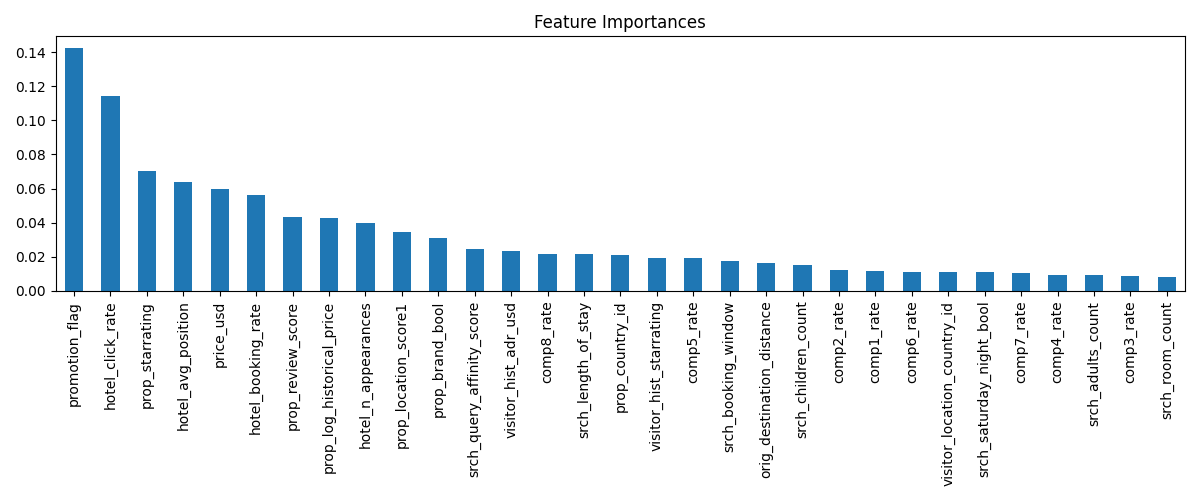
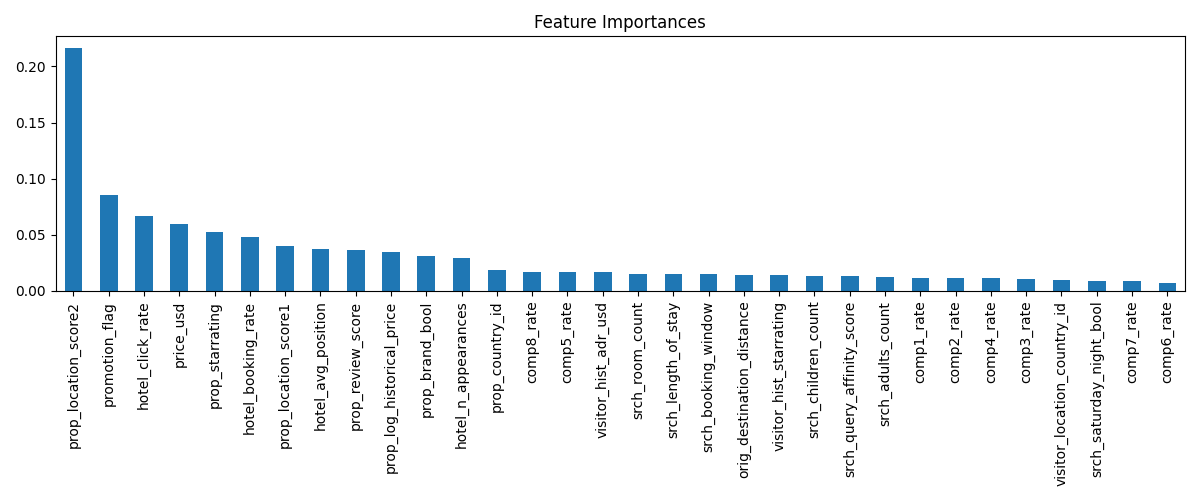
Debugged and found the issue for a zero kaggle score! wrong unwrapping of a function. Don't mind all the print statements I will remove them but keep them in this commit for reference :)

diff --git a/hotel_performance.py b/hotel_performance.py
@@ -12,7 +12,7 @@ import pandas as pd
 from pandas import Series
 
 
-# Open training set
+# # Open training set
 # train_df = pd.read_csv('training_set_VU_DM.csv', low_memory=False)
 
 # # open test set
@@ -56,10 +56,21 @@ def extract_hotel_performance_train(train_df: pd.DataFrame) -> tuple[pd.DataFram
         - hotel_performance (pd.DataFrame): the dataframe containing hotel profiles built from training data.
     """
 
+    print(f"\n{'='*50}")
+    print(f"INPUT: train_df shape: {train_df.shape}")
+    print(f"INPUT: unique prop_ids: {train_df['prop_id'].nunique()}")
+    print(f"INPUT: unique srch_ids: {train_df['srch_id'].nunique()}")
+    print(f"INPUT: unique destinations: {train_df['srch_destination_id'].nunique()}")
+
     # Get global stats
     global_position_avg = train_df['position'].mean()
     global_booking_rate = train_df['booking_bool'].mean()
     global_click_rate = train_df['click_bool'].mean()
+
+    print(f"\nGLOBAL STATS:")
+    print(f"  global_booking_rate: {global_booking_rate:.4f}")
+    print(f"  global_click_rate: {global_click_rate:.4f}")
+    print(f"  global_position_avg: {global_position_avg:.4f}")
 
     # Get global destination stats
     dest_stats = train_df.groupby('srch_destination_id').agg(
@@ -68,6 +79,10 @@ def extract_hotel_performance_train(train_df: pd.DataFrame) -> tuple[pd.DataFram
         dest_count=('booking_bool', 'count')
     ).reset_index()
 
+    print(f"\nDEST_STATS:")
+    print(f"  shape: {dest_stats.shape}")
+    print(f"  duplicate destinations: {dest_stats['srch_destination_id'].duplicated().sum()}")
+
     # Get destination stats for one search_id
     dest_search = train_df.groupby(['srch_destination_id', 'srch_id']).agg(
         search_dest_bookings=('booking_bool', 'sum'),
@@ -75,19 +90,29 @@ def extract_hotel_performance_train(train_df: pd.DataFrame) -> tuple[pd.DataFram
         search_dest_count=('booking_bool', 'count')
     ).reset_index()
 
+    print(f"\nDEST_SEARCH:")
+    print(f"  shape: {dest_search.shape}")
+    print(f"  duplicate (dest, srch) pairs: {dest_search.duplicated(subset=['srch_destination_id', 'srch_id']).sum()}")
+
     # merge into training set
+    rows_before = len(train_df)
     train_df = train_df.merge(
         dest_search,
         on=['srch_destination_id', 'srch_id'],
         how='left'
     )
+    print(f"\nAFTER MERGE dest_search: {rows_before} -> {len(train_df)} rows (diff: {len(train_df) - rows_before})")
+    print(f"  NaNs in search_dest_bookings: {train_df['search_dest_bookings'].isna().sum()}")
 
     # also merge total in training set
+    rows_before = len(train_df)
     train_df = train_df.merge(
         dest_stats,
         on='srch_destination_id',
         how='left'
     )
+    print(f"AFTER MERGE dest_stats: {rows_before} -> {len(train_df)} rows (diff: {len(train_df) - rows_before})")
+    print(f"  NaNs in dest_bookings: {train_df['dest_bookings'].isna().sum()}")
 
     # CALCULATE LOO STATS
     # i.e leaving out current search id
@@ -106,6 +131,10 @@ def extract_hotel_performance_train(train_df: pd.DataFrame) -> tuple[pd.DataFram
         - train_df['search_dest_count']
     )
 
+    print(f"\nLOO DEST STATS:")
+    print(f"  negative loo_dest_count: {(loo_dest_count < 0).sum()}")
+    print(f"  zero loo_dest_count: {(loo_dest_count == 0).sum()}")
+
     # apply Bayesian smoothing to dest stats ( bayesian smoothing: https://en.wikipedia.org/wiki/Bayesian_average )
     # i.e a weighted mean (destination and global stats)
     C_bayesian = 30
@@ -117,6 +146,10 @@ def extract_hotel_performance_train(train_df: pd.DataFrame) -> tuple[pd.DataFram
     train_df['dest_click_rate'] = (
         loo_dest_clicks + C_bayesian * global_click_rate
     ) / (loo_dest_count + C_bayesian)
+
+    print(f"\nDEST RATES:")
+    print(f"  dest_booking_rate NaNs: {train_df['dest_booking_rate'].isna().sum()}")
+    print(f"  dest_booking_rate range: [{train_df['dest_booking_rate'].min():.4f}, {train_df['dest_booking_rate'].max():.4f}]")
 
     # merge into train data
     # cols = ['srch_destination_id', 'dest_booking_rate', 'dest_click_rate']
@@ -139,18 +172,28 @@ def extract_hotel_performance_train(train_df: pd.DataFrame) -> tuple[pd.DataFram
         search_hotel_count=('booking_bool', 'count')
     ).reset_index()
 
+    print(f"\nHOTEL_SEARCH:")
+    print(f"  shape: {hotel_search.shape}")
+    print(f"  duplicate (prop, srch) pairs: {hotel_search.duplicated(subset=['prop_id', 'srch_id']).sum()}")
+
     # merge into training df
+    rows_before = len(train_df)
     train_df = train_df.merge(
         hotel_search,
         on=['prop_id', 'srch_id'],
         how='left'
     )
+    print(f"\nAFTER MERGE hotel_search: {rows_before} -> {len(train_df)} rows (diff: {len(train_df) - rows_before})")
+    print(f"  NaNs in search_hotel_bookings: {train_df['search_hotel_bookings'].isna().sum()}")
 
+    rows_before = len(train_df)
     train_df = train_df.merge(
         hotel_total,
         on='prop_id',
         how='left'
     )
+    print(f"AFTER MERGE hotel_total: {rows_before} -> {len(train_df)} rows (diff: {len(train_df) - rows_before})")
+    print(f"  NaNs in hotel_bookings: {train_df['hotel_bookings'].isna().sum()}")
 
     # apply LOO per search_id
     loo_hotel_bookings = (
@@ -173,6 +216,11 @@ def extract_hotel_performance_train(train_df: pd.DataFrame) -> tuple[pd.DataFram
         - train_df['search_hotel_count']
     )
 
+    print(f"\nLOO HOTEL STATS:")
+    print(f"  negative loo_hotel_count: {(loo_hotel_count < 0).sum()}")
+    print(f"  zero loo_hotel_count: {(loo_hotel_count == 0).sum()}")
+    print(f"  NaN loo_hotel_count: {loo_hotel_count.isna().sum()}")
+
     # train_df should have these for training the ML
     # we apply leave-one-out
     # smoothing towards destination
@@ -192,6 +240,14 @@ def extract_hotel_performance_train(train_df: pd.DataFrame) -> tuple[pd.DataFram
     ) / (loo_hotel_count + C_bayesian)
 
     train_df['hotel_n_appearances'] = loo_hotel_count
+
+    print(f"\nFINAL HOTEL FEATURES:")
+    print(f"  hotel_booking_rate NaNs: {train_df['hotel_booking_rate'].isna().sum()}")
+    print(f"  hotel_booking_rate range: [{train_df['hotel_booking_rate'].min():.4f}, {train_df['hotel_booking_rate'].max():.4f}]")
+    print(f"  hotel_click_rate NaNs: {train_df['hotel_click_rate'].isna().sum()}")
+    print(f"  hotel_n_appearances NaNs: {train_df['hotel_n_appearances'].isna().sum()}")
+    print(f"  hotel_n_appearances range: [{train_df['hotel_n_appearances'].min():.0f}, {train_df['hotel_n_appearances'].max():.0f}]")
+    print(f"  train_df shape after all merges: {train_df.shape}")
 
 
     # drop unnecessary columns
@@ -297,9 +353,26 @@ def extract_hotel_performance_test(train_df: pd.DataFrame, test_df: pd.DataFrame
     - test_df (pd.DataFrame): the test dataframe with new features
     '''
 
+    print(f"\n{'='*50}")
+    print(f"TEST INPUT: test_df shape: {test_df.shape}")
+    print(f"TEST INPUT: unique srch_ids in test: {test_df['srch_id'].nunique()}")
+
     # extract features from training_df
     # this includes Bayesian smoothing
     train_df, hotel_performance, dest_performance = extract_hotel_performance_train(train_df)
+    print("=======HOTEL PERFORMANCE COLUMNS======")
+    print(hotel_performance.columns.tolist())
+    print(hotel_performance.shape)
+    print("=" * 50)
+
+    print(f"\nHOTEL_PERFORMANCE:")
+    print(f"  shape: {hotel_performance.shape}")
+    print(f"  duplicate prop_ids: {hotel_performance['prop_id'].duplicated().sum()}")
+    print(f"  NaNs: {hotel_performance.isna().sum().sum()}")
+
+    print(f"\nDEST_PERFORMANCE:")
+    print(f"  shape: {dest_performance.shape}")
+    print(f"  duplicate destinations: {dest_performance['srch_destination_id'].duplicated().sum()}")
 
     # Get destination mean
     # TODO: smoothing this!
@@ -310,8 +383,14 @@ def extract_hotel_performance_test(train_df: pd.DataFrame, test_df: pd.DataFrame
 
     # Merge into test set
     # uses smoothed destinations !
+    rows_before = len(test_df)
     test_df = test_df.merge(hotel_performance, on='prop_id', how='left')
+    print(f"\nAFTER MERGE hotel_performance into test: {rows_before} -> {len(test_df)} rows (diff: {len(test_df) - rows_before})")
+    print(f"  new hotels (NaN hotel_booking_rate): {test_df['hotel_booking_rate'].isna().sum()}")
+
+    rows_before = len(test_df)
     test_df = test_df.merge(dest_performance, on='srch_destination_id', how='left') # dropped later
+    print(f"AFTER MERGE dest_performance into test: {rows_before} -> {len(test_df)} rows (diff: {len(test_df) - rows_before})")
 
     # Replace NaN with destination mean, then global mean
     global_booking_rate = train_df['booking_bool'].mean()
@@ -332,6 +411,9 @@ def extract_hotel_performance_test(train_df: pd.DataFrame, test_df: pd.DataFrame
     train_df = train_df.drop(columns=['dest_booking_rate', 'dest_click_rate'])
 
     # Merge new features into training df
+
+    print(f"\nFINAL TEST SHAPE: {test_df.shape}")
+    print(f"FINAL TEST unique srch_ids: {test_df['srch_id'].nunique()}")
 
     return train_df, test_df
 

diff --git a/lambdamart.py b/lambdamart.py
@@ -11,6 +11,11 @@ import matplotlib.pyplot as plt
 
 TESTING_MODE = False
 
+# DEBUG
+raw_test = pd.read_csv('test_set_VU_DM.csv', low_memory=False)
+print(f"Raw test unique srch_ids: {raw_test['srch_id'].nunique()}")
+print(f"Raw test shape: {raw_test.shape}")
+
 # Open training set
 if not TESTING_MODE:
     train_df = pd.read_csv('training_set_VU_DM.csv', low_memory=False)
@@ -27,6 +32,9 @@ if not TESTING_MODE:
 else:
     # Use only 10% of data while testing
     test_df = pd.read_csv('test_set_VU_DM.csv', low_memory=False, nrows=5000)
+
+# DEBUG
+print(f"test_df unique srch_ids after loading: {test_df['srch_id'].nunique()}")
 
 # split data
 splitter = GroupShuffleSplit(
@@ -49,13 +57,15 @@ print('booking_bool' in train_part.columns)
 # feature engineer
 train_fold, _, _ = extract_hotel_performance_train(train_part)
 
-valid_fold, _ = extract_hotel_performance_test(
+_, valid_fold = extract_hotel_performance_test(
     train_part,
     valid_part
 )
 
+
 # feature engineer test set
-test_fold, _ = extract_hotel_performance_test(train_df, test_df)
+_, test_fold = extract_hotel_performance_test(train_df, test_df)
+print(f"test_fold unique srch_ids after extract: {test_fold['srch_id'].nunique()}")
 
 # add relevance
 train_fold['relevance'] = 0
@@ -155,12 +165,21 @@ valid_fold['prediction'] = model.predict(X_valid)
 X_test = test_fold[features]
 test_fold['prediction'] = model.predict(X_test)
 
+
 # submission to csv
 submission = (
     test_fold
     .sort_values(['srch_id', 'prediction'], ascending=[True, False])
     [['srch_id', 'prop_id']]
 )
+
+# DEBUG
+print(f"test_fold unique srch_ids: {test_fold['srch_id'].nunique()}")
+print(f"test_df unique srch_ids: {test_df['srch_id'].nunique()}")
+print(f"submission unique srch_ids: {submission['srch_id'].nunique()}")
+print(f"Are all test_fold srch_ids in test_df? {test_fold['srch_id'].isin(test_df['srch_id']).all()}")
+
+# save to csv
 submission.to_csv('submission/group154_submission1.csv', index=False)
 
 # validation to csv
@@ -186,6 +205,13 @@ plt.savefig('feature_importance.png')
 plt.show()
 
 
+# are there any NaNs in the submission?
+print('\nnans in submission: ', submission.isna().sum())
+
+# how many unique searches?
+print(f"\nUnique searches in submission: {submission['srch_id'].nunique()}")
+print(f"Unique searches in test: {test_df['srch_id'].nunique()}")
+
 # DEBUG
 print("=== prop_location_score2 ===")
 print(f"dtype: {train_df['prop_location_score2'].dtype}")
@@ -199,3 +225,10 @@ print(f"\nAre there any 0 values?")
 print(f"Count of 0s: {(train_df['prop_location_score2'] == 0).sum()}")
 print(f"\nDistribution of nulls vs booking_bool:")
 print(train_df.groupby(train_df['prop_location_score2'].isna())['booking_bool'].mean())
+
+# are there any NaNs in the submission?
+print(submission.isna().sum())
+
+# how many unique searches?
+print(f"Unique searches in submission: {submission['srch_id'].nunique()}")
+print(f"Unique searches in test: {test_df['srch_id'].nunique()}")